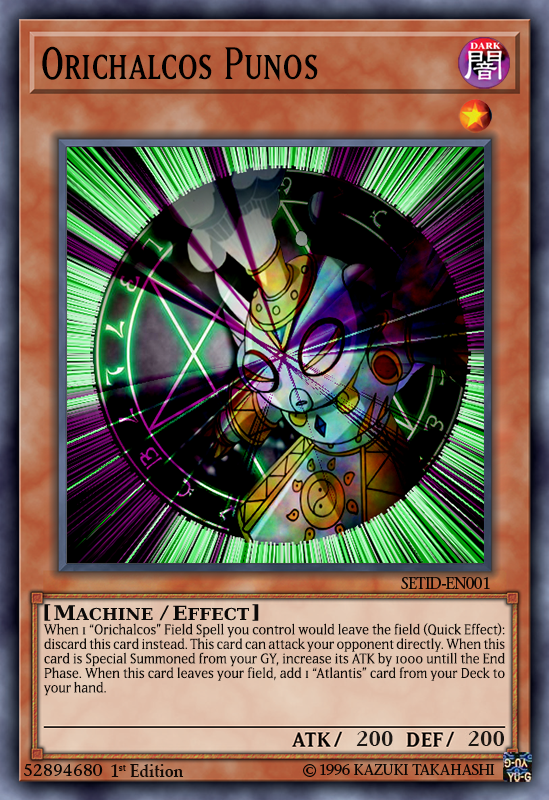
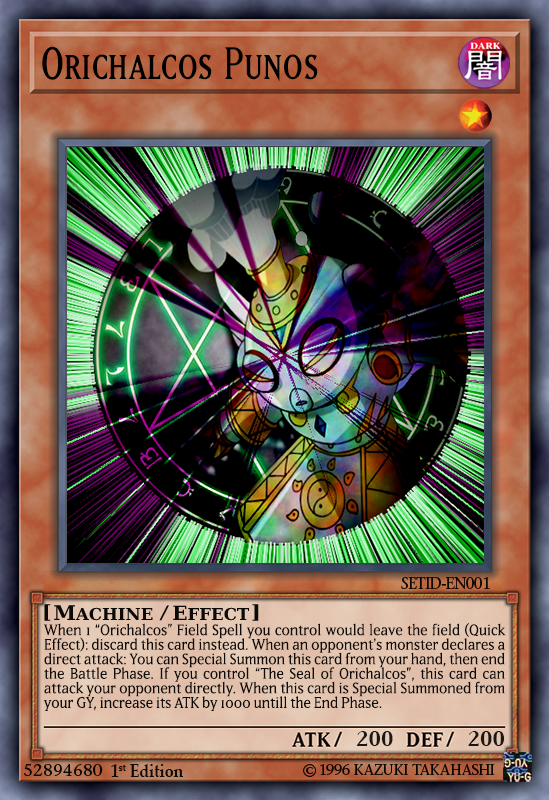
Update

Changed region(s): [[0.0619, 0.7812, 0.929, 0.9062]]

diff --git a/Scripts/cards_db.js b/Scripts/cards_db.js
@@ -1293,7 +1293,7 @@ var CARDS_DB =
             "ATK": 200,
             "DEF": 200,
             "Attribute": "DARK",
-            "Effect": "When 1 \"Orichalcos\" Field Spell you control would leave the field (Quick Effect): discard this card instead. This card can attack your opponent directly. When this card is Special Summoned from your GY, increase its ATK by 1000 untill the End Phase. When this card leaves your field, add 1 \"Atlantis\" card from your Deck to your hand."
+            "Effect": "When 1 \u201cOrichalcos\u201d Field Spell you control would leave the field (Quick Effect): discard this card instead. When an opponent's monster declares a direct attack: You can Special Summon this card from your hand, then end the Battle Phase. If you control \u201cThe Seal of Orichalcos\u201d, this card can attack your opponent directly. When this card is Special Summoned from your GY, increase its ATK by 1000 untill the End Phase."
         }
     },
     {
